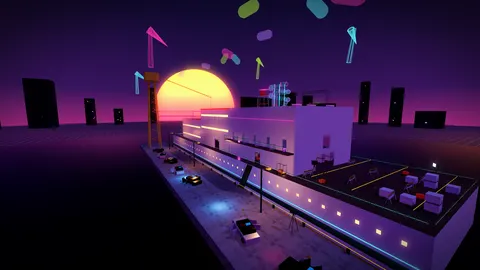
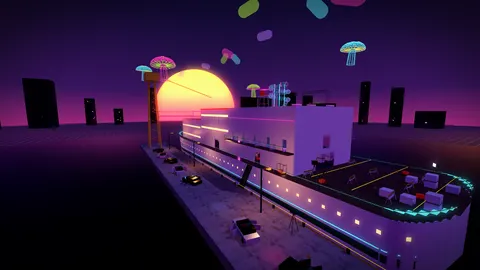
Ship Drugs: smooth cruise-ship hull (raked stem, curved bow, rounded stern; coarse hidden colliders under a fine skin; stripes, windows, deck and rail follow it), checker floors no longer under the deck; Map Editor: Exit button top left and Esc backs out to the menu
Claude-Session: https://claude.ai/code/session_013cEUyKFWfXQwnZSdKsgxWE

diff --git a/src/maps.js b/src/maps.js
@@ -9,7 +9,7 @@
     let grp = null;   // objects made inside together() are one piece in the map editor (a play unit and its roof and slide)
     const O = (name, kind, extra = {}) => { const o = { id: nid++, name, kind, prims: [], vis: [], ...extra }; if (grp != null) o.grp = grp; objs.push(o); return o; };
     const together = fn => { const was = grp; grp = nid; try { return fn(); } finally { grp = was; } };
-    const box = (o, c, h, mat, ry = 0, rx = 0, rz = 0, opts = {}) => { const b = makeBox(c, h, ry, rx, rz); if (opts.noSurvey) b.leaf = true; if (!opts.noCollide) o.prims.push(b); o.vis.push({ shape: 'box', c, h, mat, euler: [rx, ry, rz], ...opts }); return b; };
+    const box = (o, c, h, mat, ry = 0, rx = 0, rz = 0, opts = {}) => { const b = makeBox(c, h, ry, rx, rz); if (opts.noSurvey) b.leaf = true; if (!opts.noCollide) o.prims.push(b); if (!opts.noDraw) o.vis.push({ shape: 'box', c, h, mat, euler: [rx, ry, rz], ...opts }); return b; };   // noDraw: a collider nothing is drawn for (a smooth skin is drawn over it)
     const pipe = (o, a, b, r, mat, opts = {}) => { if (!opts.noCollide) { const c = makeCapsule(a, b, r); if (opts.leafSolid || opts.noSurvey) c.leaf = true; o.prims.push(c); }   /* leaf: solid, but never a pole or an over/under of its own */ o.vis.push({ shape: 'pipe', a, b, r, mat, ...opts }); };
     // a drawn cone's collision (conifer tiers): capsules stacked up the axis, each as wide as fits inside the cone at its
     // top (k: share of the drawn radius, the bough tips give), the lowest resting on the base; leaf: not a pole, not surveyed
@@ -879,13 +879,40 @@
     zones.push({ shape: 'zone', mat: 'deckWet', c: v3(0, 0.004, -19), h: v3(52, 0, 6.2) });   // wet sheen under the pier edge
     const pier = O('Pier', 'deco'); box(pier, v3(0, 0.75, -19), v3(52, 0.75, 6), 'concrete');
     for (let x = -48; x <= 48; x += 6) { pipe(pier, v3(x, 1.5, -13.4), v3(x, 2.1, -13.4), 0.18, 'darkMetal'); box(pier, v3(x + 3, 1.52, -13.2), v3(2.9, 0.02, 0.12), 'plasticYellow', 0, 0, 0, ND); }
-    const hull = O('Hull', 'wall'); box(hull, v3(-2, DECK / 2, 0), v3(46, DECK / 2, 11), 'hullWhite');
-    box(hull, v3(46.5, DECK / 2, 0), v3(2.5, DECK / 2, 7.5), 'hullWhite'); box(hull, v3(50.5, DECK / 2, 0), v3(1.5, DECK / 2, 3.6), 'hullWhite');
-    for (const s of [-1, 1]) { box(hull, v3(-2, 1.4, s * 11.02), v3(46, 0.45, 0.02), 'hullNavy', 0, 0, 0, ND); box(hull, v3(-2, 2.3, s * 11.02), v3(46, 0.06, 0.02), 'neonCyan', 0, 0, 0, GL);
-      for (let x = -46; x <= 42; x += 2.2) box(hull, v3(x, 4.2, s * 11.03), v3(0.22, 0.22, 0.02), 'windowLit', 0, 0, 0, GL); }
-    box(hull, v3(-2, DECK + 0.01, 0), v3(46, 0.01, 11), 'teakWet', 0, 0, 0, ND);
-    const hrail = O('Deck Rail', 'overunder'); hrail.railGlow = 'neonCyan'; for (const s of [-1, 1]) rail(hrail, v3(-47.5, 0, s * 10.85), v3(43.5, 0, s * 10.85), DECK + 1.05, 2.4);
-    rail(hrail, v3(-47.85, 0, -10.6), v3(-47.85, 0, 10.6), DECK + 1.05, 2.4);
+    // the hull, after a real cruise ship's profile (owner's reference photo, 2026-11-18): straight-sided midships, a sharp
+    // bow whose stem rakes forward as it rises, and a rounded stern. Built from thin slices that follow the outline (the
+    // physics world is boxes and capsules), the stripes, windows, deck and rail following the curve.
+    const HW = 11, BOW0 = 26, STERN0 = -44, STERN_L = 4.5, stemAt = y => 47 + 5 * Math.min(1, Math.max(0, y / DECK));   // the stem: 47 m at the waterline, 52 m at the deck
+    const hw = (x, y) => { if (x >= BOW0) { const L = stemAt(y) - BOW0, u = (x - BOW0) / L; return u >= 1 ? 0 : HW * Math.pow(1 - u * u, 0.6); }
+      if (x <= STERN0) { const u = (STERN0 - x) / STERN_L; return u >= 1 ? 0 : HW * Math.sqrt(1 - u * u); } return HW; };
+    const hull = O('Hull', 'wall'); box(hull, v3((STERN0 + BOW0) / 2, DECK / 2, 0), v3((BOW0 - STERN0) / 2, DECK / 2, HW), 'hullWhite');
+    const DX = 0.8, BAND = 1;
+    // what you hit: coarse slices (not drawn); what you see: a smooth skin of short plates turned along the outline, in
+    // 40 cm bands, so the curve and the rake read smooth (owner: "a bit more smoothed out and less blocky")
+    for (let x = BOW0; x < stemAt(DECK); x += DX) for (let y = 0; y < DECK - 1e-6; y += BAND) { const w = hw(x + DX / 2, y + BAND / 2); if (w > 0.05) box(hull, v3(x + DX / 2, y + BAND / 2, 0), v3(DX / 2 + 0.02, BAND / 2, w), 'hullWhite', 0, 0, 0, { noDraw: true }); }
+    for (let x = STERN0; x > STERN0 - STERN_L; x -= DX / 2) { const w = hw(x - DX / 4, 3); if (w > 0.05) box(hull, v3(x - DX / 4, DECK / 2, 0), v3(DX / 4 + 0.02, DECK / 2, w), 'hullWhite', 0, 0, 0, { noDraw: true }); }
+    { const SK = 0.4, skin = (y, hy, x0, x1, step) => { for (const s of [-1, 1]) for (let x = x0; x < x1 - 1e-6; x += step) { const xb = Math.min(x1, x + step), wa = hw(x, y), wb = hw(xb, y), dz = (wb - wa) * s, L = Math.hypot(xb - x, dz);
+          if (wa < 0.02 && wb < 0.02) continue; box(hull, v3((x + xb) / 2, y, s * ((wa + wb) / 2 - 0.05)), v3(L / 2 + 0.03, hy, 0.06), 'hullWhite', -Math.atan2(dz, xb - x), 0, 0, ND); } };
+      for (let y = SK / 2; y < DECK; y += SK) skin(y, SK / 2 + 0.005, BOW0 - 0.4, stemAt(y), 0.7);
+      skin(DECK / 2, DECK / 2, STERN0 - STERN_L, STERN0 + 0.4, 0.45); }
+    // the deck: one plank field midships, slices fore and aft
+    box(hull, v3((STERN0 + BOW0) / 2, DECK + 0.01, 0), v3((BOW0 - STERN0) / 2, 0.01, HW), 'teakWet', 0, 0, 0, ND);
+    for (let x = BOW0; x < stemAt(DECK); x += DX) { const w = hw(x + DX / 2, DECK) - 0.02; if (w > 0.05) box(hull, v3(x + DX / 2, DECK + 0.01, 0), v3(DX / 2 + 0.01, 0.01, w), 'teakWet', 0, 0, 0, ND); }
+    for (let x = STERN0; x > STERN0 - STERN_L; x -= DX / 2) { const w = hw(x - DX / 4, DECK) - 0.02; if (w > 0.05) box(hull, v3(x - DX / 4, DECK + 0.01, 0), v3(DX / 4 + 0.01, 0.01, w), 'teakWet', 0, 0, 0, ND); }
+    // a line along the hull side at height y, as short straight pieces turned to follow the curve
+    const along = (y, x0, x1, step, fn) => { for (let x = x0; x < x1 - 1e-6; x += step) { const xa = x, xb = Math.min(x1, x + step), wa = hw(xa, y), wb = hw(xb, y); if (wa < 0.3 && wb < 0.3) continue; fn(xa, xb, wa, wb); } };
+    const sideStrip = (y, hy, mat, opt, x0 = STERN0 - STERN_L, x1 = stemAt(y)) => { for (const s of [-1, 1]) along(y, x0, x1, 1.0, (xa, xb, wa, wb) => { const dx = xb - xa, dz = (wb - wa) * s, L = Math.hypot(dx, dz), ry = -Math.atan2(dz, dx);
+      box(hull, v3((xa + xb) / 2, y, s * ((wa + wb) / 2 + 0.02)), v3(L / 2 + 0.01, hy, 0.02), mat, ry, 0, 0, opt); }); };
+    sideStrip(1.4, 0.45, 'hullNavy', ND); sideStrip(2.3, 0.06, 'neonCyan', GL);
+    for (const s of [-1, 1]) for (let x = -46; x <= 42; x += 2.2) { const w = hw(x, 4.2), w2 = hw(x + 0.3, 4.2); if (w < 1.5) continue; const ry = -Math.atan2((w2 - w) * s, 0.3);
+      box(hull, v3(x, 4.2, s * (w + 0.03)), v3(0.22, 0.22, 0.02), 'windowLit', ry, 0, 0, GL); }
+    // the deck rail: straight midships, round the bow and the stern
+    const hrail = O('Deck Rail', 'overunder'); hrail.railGlow = 'neonCyan';
+    for (const s of [-1, 1]) rail(hrail, v3(STERN0, 0, s * (HW - 0.15)), v3(BOW0, 0, s * (HW - 0.15)), DECK + 1.05, 2.4);
+    { const pts = []; for (let x = BOW0; x <= stemAt(DECK) - 0.6; x += 1.6) pts.push([x, hw(x, DECK) - 0.15]); pts.push([stemAt(DECK) - 0.6, 0]);
+      for (const s of [-1, 1]) for (let i = 1; i < pts.length; i++) rail(hrail, v3(pts[i - 1][0], 0, s * pts[i - 1][1]), v3(pts[i][0], 0, s * Math.max(0, pts[i][1])), DECK + 1.05, 2.4); }
+    { const pts = []; for (let k = 0; k <= 8; k++) { const a = k / 8 * Math.PI / 2, x = STERN0 - Math.sin(a) * (STERN_L - 0.35); pts.push([x, Math.max(0, hw(x, DECK) - 0.15)]); }
+      for (const s of [-1, 1]) for (let i = 1; i < pts.length; i++) rail(hrail, v3(pts[i - 1][0], 0, s * pts[i - 1][1]), v3(pts[i][0], 0, s * pts[i][1]), DECK + 1.05, 2.4); }
     // the gangway from the pier up to the main deck (port side), and its rails
     { const g = O('Gangway', 'deco'); const x = -20, z0 = -13.2, z1 = -10.9, L = Math.hypot(z1 - z0, DECK - 1.5), a = Math.atan2(DECK - 1.5, z1 - z0);
       box(g, v3(x, (1.5 + DECK) / 2, (z0 + z1) / 2), v3(0.9, 0.06, L / 2), 'darkMetal', 0, -a, 0); for (const s of [-1, 1]) pipe(g, v3(x + s * 0.9, 2.5, z0), v3(x + s * 0.9, DECK + 1, z1), 0.03, 'brass', NS); }
@@ -1034,10 +1061,10 @@
         for (const y of [L2 + 1.9, L3 + 1.9]) box(at, v3((AX0 + AX1) / 2, y, s * (ZW + 0.11)), v3(9.5, 0.3, 0.01), 'windowLit', 0, 0, 0, GL); }
       gapO('Casino Door', v3(-0.5, DECK + 1.5, -ZW), v3(0, 0, 1), v3(1, 0, 0), 1.42, 1.42);
       // the casino floor: checkerboard dance floor, overturned poker tables, chips and cash, slot machines, glass blocks
-      const cas = O('Casino Floor', 'deco'); box(cas, v3(2, DECK + 0.012, 0), v3(5, 0.006, 5), 'checker', 0, 0, 0, ND);
+      const cas = O('Casino Floor', 'deco'); box(cas, v3(2, DECK + 0.028, 0), v3(5, 0.006, 5), 'checker', 0, 0, 0, ND);
       for (const [x, z, a] of [[-4.5, -4, 1.2], [-3.5, 4, 1.35], [7.5, -5.5, 1.1], [8, 5.2, 1.3]]) { const pt = O('Overturned Poker Table', 'deco'); box(pt, v3(x, DECK + 0.75, z), v3(0.9, 0.05, 0.75), 'feltGreen', 0.4, a, 0);
         pipe(pt, v3(x - 0.3, DECK, z + 0.5), v3(x - 0.3, DECK + 0.5, z + 0.9), 0.06, 'brass', NS);
-        for (let k = 0; k < 9; k++) box(pt, v3(x + Math.sin(k * 2.4) * (0.6 + k * 0.1), DECK + 0.015, z + Math.cos(k * 2.4) * (0.5 + k * 0.08)), v3(0.05, 0.008, k % 3 ? 0.05 : 0.09), k % 3 ? ['neonPink', 'neonCyan', 'neonYellow'][k % 3] : 'feltGreen', k, 0, 0, ND); }
+        for (let k = 0; k < 9; k++) box(pt, v3(x + Math.sin(k * 2.4) * (0.6 + k * 0.1), DECK + 0.042, z + Math.cos(k * 2.4) * (0.5 + k * 0.08)), v3(0.05, 0.008, k % 3 ? 0.05 : 0.09), k % 3 ? ['neonPink', 'neonCyan', 'neonYellow'][k % 3] : 'feltGreen', k, 0, 0, ND); }
       for (let x = -6; x <= 10; x += 1.6) for (const s of [-1, 1]) { if (s < 0 && x > -3 && x < 2) continue; const sm = O('Slot Machine', 'deco'); box(sm, v3(x, DECK + 0.8, s * (ZW - 0.45)), v3(0.4, 0.8, 0.35), 'carBlack'); box(sm, v3(x, DECK + 1.15, s * (ZW - 0.8)), v3(0.3, 0.2, 0.01), ['neonMagenta', 'neonLime', 'neonCyan'][Math.round(x) % 3 < 0 ? 0 : Math.round(x) % 3], 0, 0, 0, GL); }
       for (const z of [-6, 6]) { const gb = O('Glass Block Partition', 'overunder'); box(gb, v3(-2, DECK + 0.6, z), v3(1.8, 0.6, 0.08), 'glassBlock'); gb.obstacle = { a: v3(-3.8, 0, z), b: v3(-0.2, 0, z), under: DECK, over: DECK + 1.2 }; }
       // balconies all round at L2 and L3 (1.6 m), brass and neon rails on the inner edge
@@ -1083,7 +1110,7 @@
         gapO('Shattered Skylight', v3((a + b) / 2, L3 - T, 0), v3(0, 1, 0), v3(1, 0, 0), 1.15, 1.15);
         for (let k = 0; k < 6; k++) box(rf, v3(a + 0.15 + (k % 3) * 1.05, L3 - 0.05, (k < 3 ? -1 : 1) * 1.15), v3(0.22, 0.01, 0.08), 'glassBlock', k * 0.7, 0.4, 0, ND); }
       rail(rf, v3(LX0, 0, -ZW + 0.2), v3(LX1, 0, -ZW + 0.2), L3 + 1.05, 2.2); rail(rf, v3(LX0, 0, ZW - 0.2), v3(LX1, 0, ZW - 0.2), L3 + 1.05, 2.2);
-      box(lo, v3(23, DECK + 0.012, 0), v3(4.5, 0.006, 4.5), 'checker', 0, 0, 0, ND);
+      box(lo, v3(23, DECK + 0.028, 0), v3(4.5, 0.006, 4.5), 'checker', 0, 0, 0, ND);
       const bar2 = O('Lounge Bar', 'overunder'); box(bar2, v3(31.5, DECK + 0.55, 0), v3(0.4, 0.55, 5), 'glassBlock'); box(bar2, v3(31.5, DECK + 1.12, 0), v3(0.5, 0.03, 5.1), 'brass');
       bar2.obstacle = { a: v3(31.5, 0, -5), b: v3(31.5, 0, 5), under: DECK, over: DECK + 1.15 };
       const mb = O('Mirror Ball', 'overunder'); pipe(mb, v3(23, L3 - 0.3, -4), v3(23, 11.9, -4), 0.01, 'galv', NS); ball(mb, v3(23, 11.4, -4), 0.55, 'chrome');

diff --git a/src/index.template.html b/src/index.template.html
@@ -241,6 +241,7 @@ body.meOn #music { display: none !important; }
 #meLib h4, #meSide h4 { margin: 12px 0 4px; font: 12px var(--mono); text-transform: uppercase; letter-spacing: .08em; color: var(--acid); } #meLib .meGrid { display: grid; grid-template-columns: 1fr 1fr; gap: 4px; }
 #meLib .meGrid button { padding: 5px 4px; font-size: 11px; min-width: 0; } #meLib .meGrid .meTile { display: flex; flex-direction: column; align-items: stretch; gap: 3px; padding: 3px; } #meLib .meTile img { width: 100%; aspect-ratio: 4 / 3; background: rgba(255,255,255,.06); border-radius: 2px; } #meLib .meTile span { font-size: 10px; line-height: 1.15; overflow-wrap: anywhere; } #meQ { width: 100%; box-sizing: border-box; margin: 4px 0 6px; } #meLib .meGrid button.on, #meBar button.on { background: var(--acid); color: #111; }
 #meBar { position: absolute; left: 262px; right: 312px; bottom: 34px; display: flex; flex-wrap: wrap; gap: 6px; align-items: center; padding: 6px 10px; background: rgba(14,13,12,.9); border: 2px solid #0b0a09; width: max-content; max-width: calc(100% - 574px); }
+#meExit { position: absolute; left: 262px; top: 10px; z-index: 5; padding: 7px 14px; font: 700 14px var(--mono); background: rgba(14,13,12,.9); color: #fff; border: 2px solid var(--acid); cursor: pointer; } #meExit:hover { background: var(--acid); color: #000; }
 #meBar button { padding: 5px 10px; font-size: 12px; } #meBar .sep { width: 14px; } #meBar .mePlacing { margin-left: 12px; font: 12px var(--mono); color: var(--acid); }
 #meSide .meFields { display: grid; grid-template-columns: 1fr 1fr; gap: 4px 8px; } #meSide .meFields label { display: flex; flex-direction: column; font: 11px var(--mono); } #meSide .meFields input { width: 100%; box-sizing: border-box; }
 #meSide .meLocked { border: 1px solid var(--acid); padding: 10px; margin: 8px 0 12px; background: rgba(214,255,60,.06); } #meSide .meLocked p { margin: 0 0 8px; font-size: 13px; line-height: 1.4; } #meSide .meLocked input { width: 100%; box-sizing: border-box; margin: 4px 0 8px; }
@@ -406,7 +407,7 @@ setTimeout(() => window.__pwBootFail(''), 12000);
 
 <button id="fbTab" title="Send feedback about anything in the game">Feedback</button>
 <div id="fbModal" class="hide"></div><div id="pilotModal" class="hide"></div><div id="procModal" class="hide"></div><div id="fbToast"></div>
-<div id="mapEditUI" class="hide"><div id="meBar"></div><div id="meLib" class="rvSide"></div><div id="meSide" class="rvSide"></div><div id="meHint"></div></div>
+<div id="mapEditUI" class="hide"><button id="meExit" data-me="done" title="Leave the Map Editor (Esc)">✕ Exit</button><div id="meBar"></div><div id="meLib" class="rvSide"></div><div id="meSide" class="rvSide"></div><div id="meHint"></div></div>
 <div id="recapUI" class="hide"><div id="recapSide" class="rvSide"></div><div id="recapNow"></div><canvas id="recapSticks" width="260" height="120"></canvas><div id="recapBar"></div></div>
 <div id="warmBox" class="hide"></div>
 

diff --git a/src/mapedit.js b/src/mapedit.js
@@ -363,7 +363,7 @@ addEventListener('keydown', e => {
   if (ctrl && e.code === 'KeyD') { e.preventDefault(); meDuplicate(); return; }
   if (ctrl && e.code === 'KeyG') { e.preventDefault(); if (e.shiftKey) meUngroup(); else meGroup(); return; }
   if (ctrl && e.code === 'KeyZ') { e.preventDefault(); if (e.shiftKey) meRedo(); else meUndo(); return; } if (ctrl && e.code === 'KeyY') { e.preventDefault(); meRedo(); return; }
-  if (e.code === 'Escape') { if (ME.place) { ME.place = null; meLibrary(); meToolbar(); } else { ME.sel.clear(); meSelBox(); mePanels(); } return; }
+  if (e.code === 'Escape') { if (ME.place) { ME.place = null; meLibrary(); meToolbar(); } else if (ME.sel.size) { ME.sel.clear(); meSelBox(); mePanels(); } else closeMapEditor(); return; }   // Esc backs out one step at a time: placing, then the selection, then the editor
   if (e.code === 'Delete' || e.code === 'Backspace') { e.preventDefault(); meDelete(); return; }
   if (e.code === 'KeyG') { ME.tool = 'move'; meToolbar(); } if (e.code === 'KeyR') { ME.tool = 'rotate'; meToolbar(); } if (e.code === 'KeyS' && ME.sel.size) { ME.tool = 'scale'; meToolbar(); }
   if (e.code === 'KeyD' && ME.sel.size && !ctrl) meDuplicate(); if (e.code === 'KeyF') meFocus(); if (e.code === 'KeyT') ME.cam.pitch = 1.55;

diff --git a/tools/map_thumbs.py b/tools/map_thumbs.py
@@ -16,6 +16,9 @@ VIEWS = {
     'ship':       ([-52, 17, -34], [4, 9, 2]),
 }
 EXTRA = {
+    'ship-side':    ('ship', [0, 8, 70], [0, 5, 0]),
+    'ship-bow':     ('ship', [70, 10, 30], [42, 4, 0]),
+    'ship-casino':  ('ship', [-4, 8.5, 6], [3, 6, 0]),
     'clappy-underpass': ('clappy', [18.5, 1.6, 6], [18, 2.6, -6]),
     #'moose-play':   ('moose', [-24, 2.2, 9], [-34, 1.2, 0]),
     #'moose-lane':   ('moose', [-30, 2.0, 9], [10, 3, -2]),

diff --git a/CLAUDE.md b/CLAUDE.md
@@ -646,6 +646,8 @@ relay is configured and the owner saved the key (`store 'ownerKey'`, `mePublishR
 Options (`mePublish`, always to the game repo, `GAME_REPO` in mapedit.js). Setup steps: docs/DROPOFF-SETUP.md.
 
 ## Map Editor tools (2026-11-17, owner's request)
+- **Leaving**: an ✕ Exit button at the top left of the 3D view (`#meExit`, same as Done), and Esc backs out one step at a
+  time: placing an asset, then the selection, then the editor itself.
 - **Handles** (`MG`, `meGizUpdate`, `meGizPick` in mapedit.js): arrows move along X / Y / Z, a ring turns about the vertical
   (a layout turns pieces about Y only), a cube scales; shown for the current tool on the selection, constant size on
   screen; Shift snaps (0.5 m, 15°). An arrow seen end-on drags at a steady speed. Dragging the piece itself still slides it.
@@ -681,6 +683,12 @@ floodlights, the gangway, and the port crane whose boom leans over the lounge fo
 `noSurvey` (boxes too now). **tools/gapcheck.js** [map…] samples every gap's opening against every collider (5 cm clear;
 `gap.cells` = a lattice, its cell centres): the ship's 101 gaps are all open (a test in npm test). The other maps' gaps
 are drawn to the full width of their openings, so the checker flags their edges: the openings are fine.
+**Hull** (2026-11-18, after the owner's cruise-ship photo): straight-sided midships (x -44..26, 11 m half-width), a sharp bow
+whose stem rakes forward as it rises (47 m at the waterline, 52 m at the deck: `stemAt`, outline `hw(x, y)`), a rounded
+stern over its last 4.5 m. Collision is coarse slices drawn with `noDraw` (a kit box option: a collider with no look); what
+you see is a skin of short plates turned along the outline in 40 cm bands; deck, navy stripe, neon line, windows and the
+deck rail follow the same outline. The casino and lounge checker floors sit on top of the teak (they were 2 mm under it).
+`tools/map_thumbs.py --extra` saves ship-side / ship-bow / ship-casino check shots.
 Theme 'vice' (worldview.js `viceMats`, `viceBackdrop`, `viceTick`): indigo night, a striped synthwave sun on the water
 beyond the bow, the grid ring beyond 120 m, purple fog, a far shore of dark towers, black glossy water, bloom; police
 lights strobe red and blue in turns (lights with `o.strobe`, and the lightbar materials); hallucinations (translucent neon
